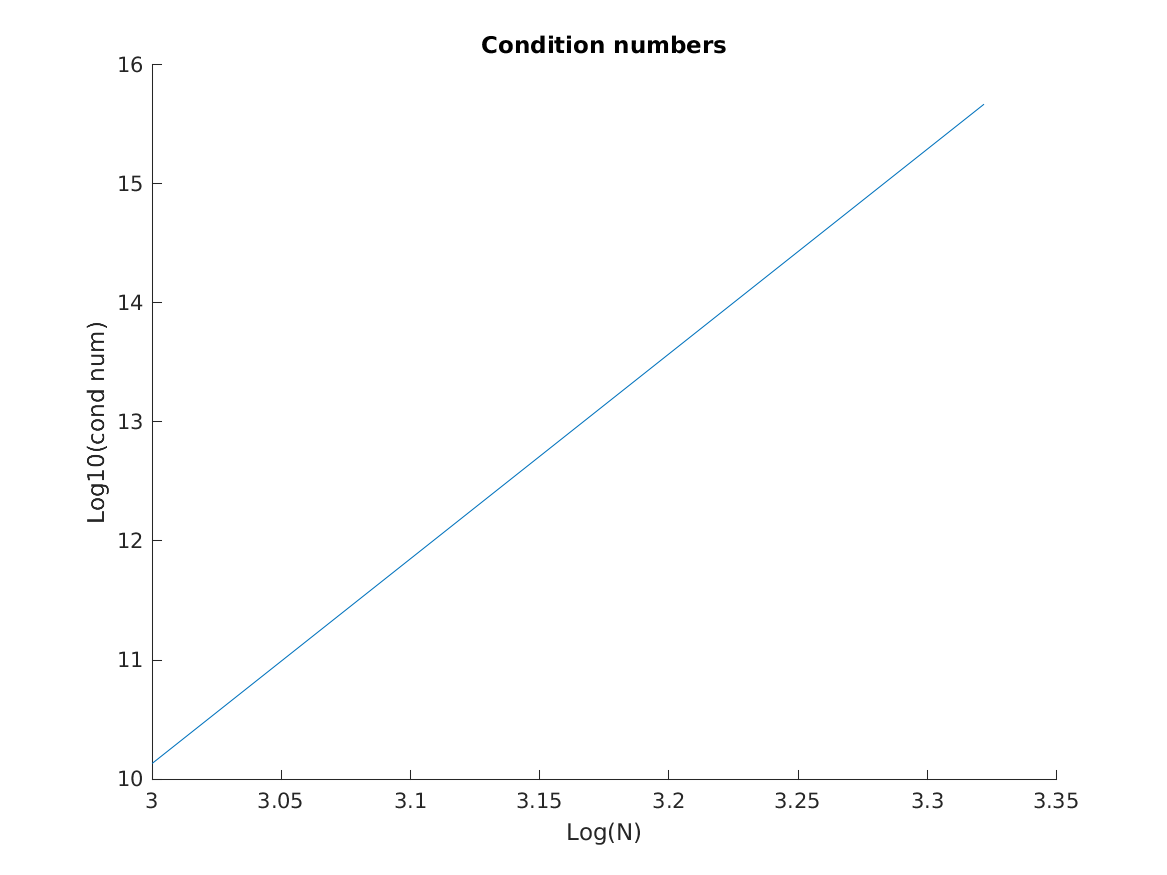
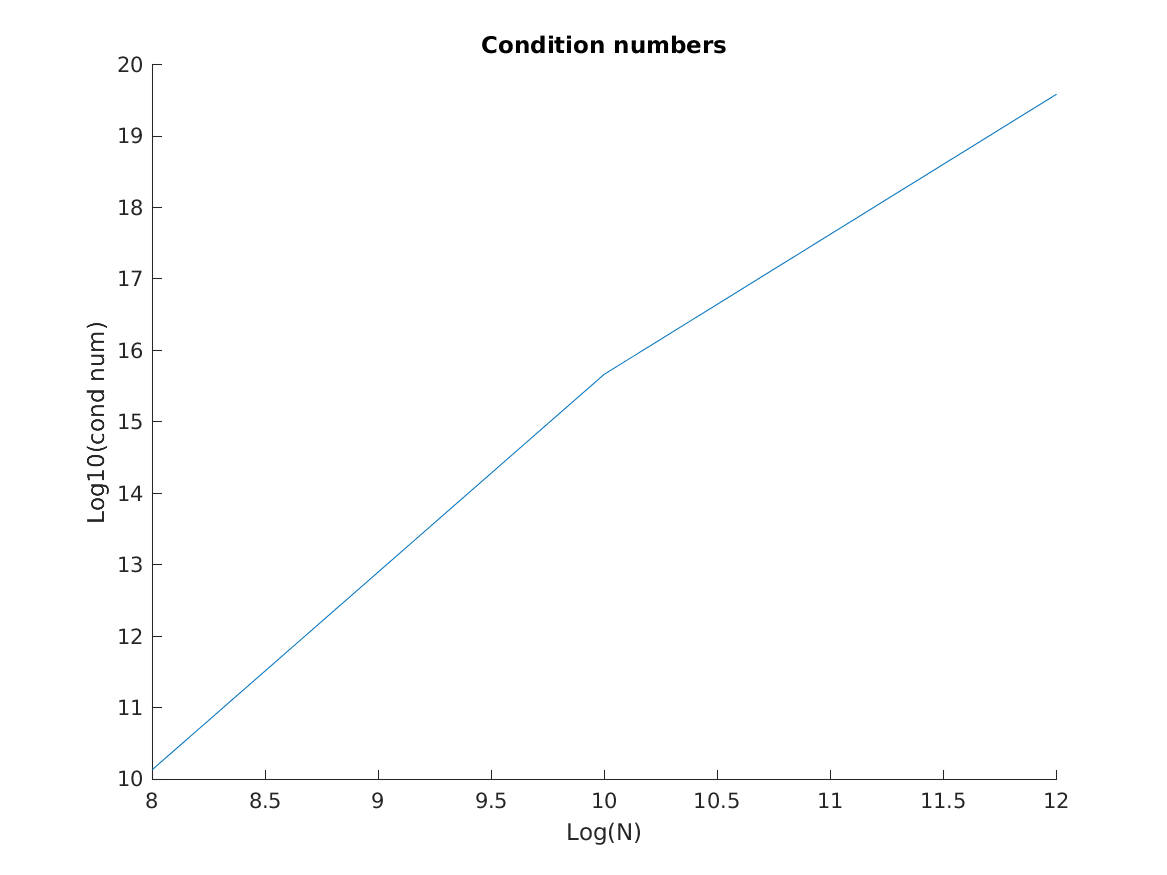
new results

diff --git a/FIOs_inverse.m b/FIOs_inverse.m
@@ -9,7 +9,7 @@ occ = 64;
 rank_or_tol = 1e-8
 repeat_num = 5;
 
-dims = [4:5]
+dims = [4:6]
 cases = length(dims);
 apptime = zeros(cases, 1);
 soltime = zeros(cases, 1);
@@ -90,7 +90,7 @@ for i = 1:cases
     soltime(i) = sol_time;
 end
 
-N = 2*dims;
+N = 2.^(2*dims);
 logN = log2(N);
 NlogN = logN + log2(logN);
 N2logN = logN + 2*log2(logN);
